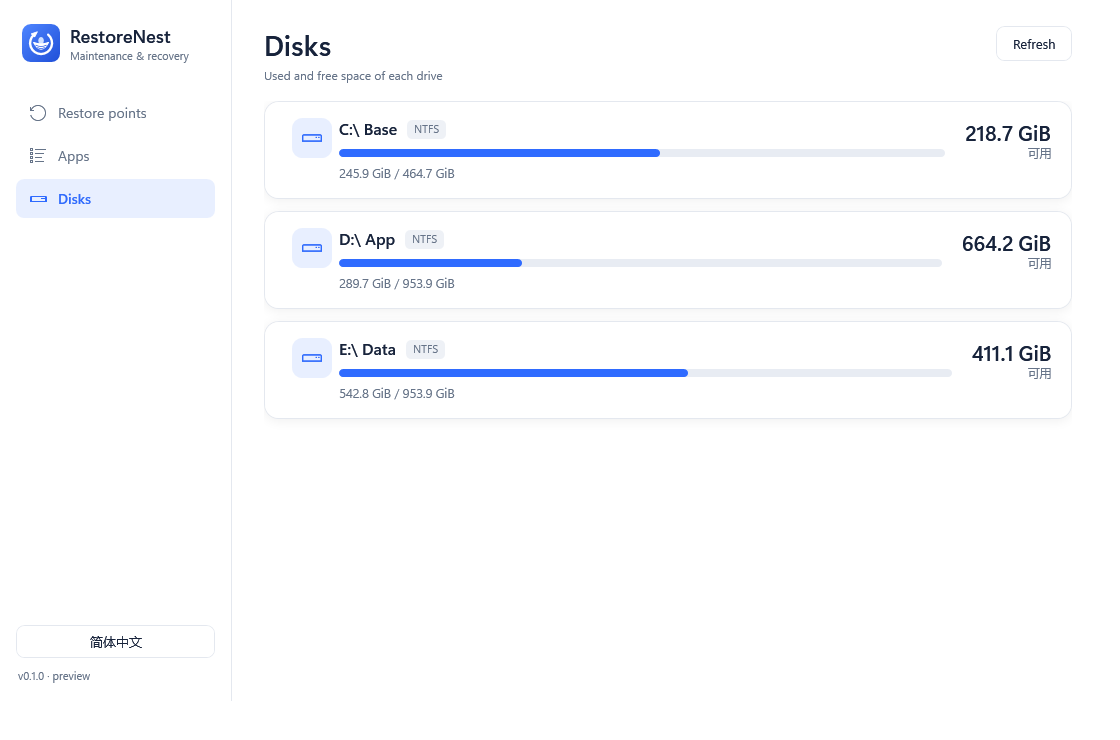
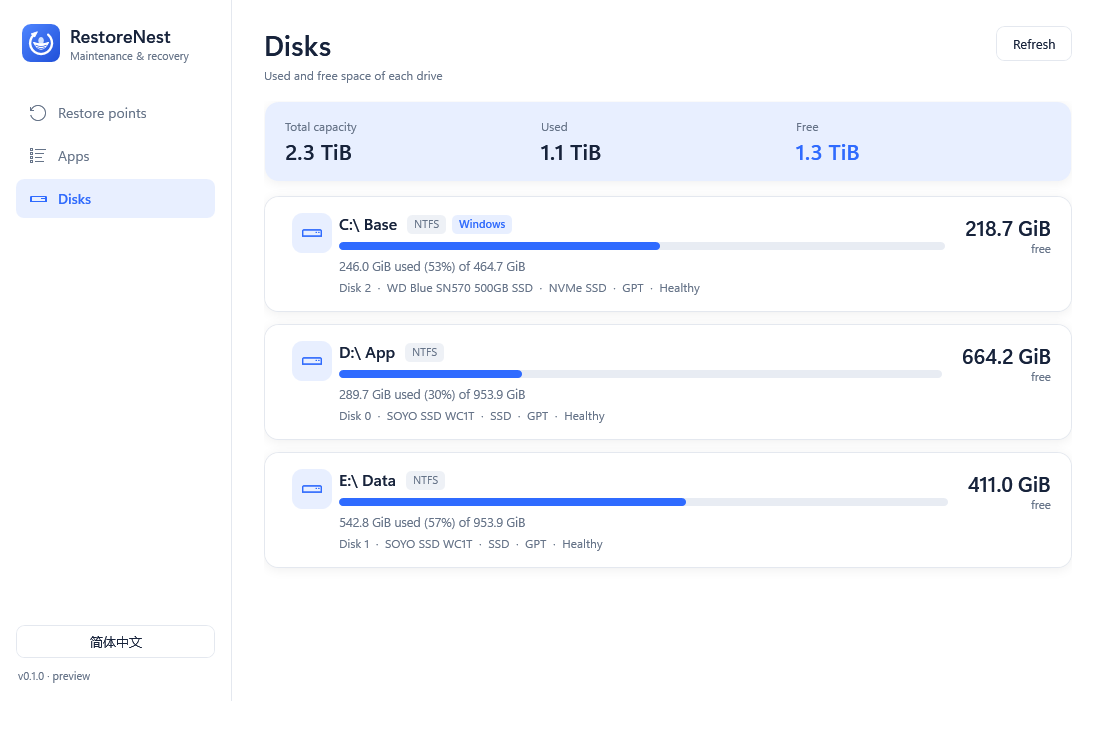
feat(ui): richer disk overview (totals, usage tiers, physical disk model/type/health, restore points per drive)

diff --git a/src/SystemCare/MainWindow.xaml b/src/SystemCare/MainWindow.xaml
@@ -131,27 +131,49 @@
           <StackPanel><TextBlock x:Name="DisksTitle" FontFamily="Segoe UI Variable Display, Segoe UI Variable Text, Segoe UI, Microsoft YaHei UI" FontSize="28" FontWeight="SemiBold"/><TextBlock x:Name="DisksSubtitle" Foreground="{StaticResource InkSoft}" Margin="0,4,0,0"/></StackPanel>
         </DockPanel>
         <ScrollViewer Grid.Row="1" VerticalScrollBarVisibility="Auto">
-          <ItemsControl x:Name="DiskList">
-            <ItemsControl.ItemTemplate>
-              <DataTemplate>
-                <Border Style="{StaticResource Card}" Margin="0,0,0,12" Padding="20,16">
-                  <Grid>
-                    <Grid.ColumnDefinitions><ColumnDefinition Width="54"/><ColumnDefinition Width="*"/><ColumnDefinition Width="Auto"/></Grid.ColumnDefinitions>
-                    <Border Width="40" Height="40" CornerRadius="10" Background="{StaticResource AccentSoft}" VerticalAlignment="Top"><TextBlock Text="&#xEDA2;" FontFamily="Segoe MDL2 Assets" FontSize="20" Foreground="{StaticResource Accent}" HorizontalAlignment="Center" VerticalAlignment="Center"/></Border>
-                    <StackPanel Grid.Column="1">
-                      <StackPanel Orientation="Horizontal"><TextBlock Text="{Binding Display}" FontSize="16" FontWeight="SemiBold"/><Border Background="#EEF1F6" CornerRadius="5" Padding="7,1" Margin="10,2,0,0"><TextBlock Text="{Binding Format}" FontSize="11" Foreground="{StaticResource InkSoft}"/></Border></StackPanel>
-                      <ProgressBar x:Name="Bar" Minimum="0" Maximum="100" Value="{Binding UsedPercent, Mode=OneWay}" Margin="0,10,0,8" AutomationProperties.Name="{Binding Summary}"/>
-                      <TextBlock Text="{Binding Summary}" FontSize="12.5" Foreground="{StaticResource InkSoft}"/>
-                    </StackPanel>
-                    <StackPanel Grid.Column="2" HorizontalAlignment="Right" Margin="20,0,0,0"><TextBlock Text="{Binding FreeText}" FontFamily="Segoe UI Variable Display, Segoe UI Variable Text, Segoe UI, Microsoft YaHei UI" FontSize="21" FontWeight="SemiBold" HorizontalAlignment="Right"/><TextBlock Text="{Binding FreeLabel}" FontSize="11.5" Foreground="{StaticResource InkSoft}" HorizontalAlignment="Right"/></StackPanel>
-                  </Grid>
-                </Border>
-                <DataTemplate.Triggers>
-                  <DataTrigger Binding="{Binding IsCritical}" Value="True"><Setter TargetName="Bar" Property="Foreground" Value="{StaticResource Danger}"/></DataTrigger>
-                </DataTemplate.Triggers>
-              </DataTemplate>
-            </ItemsControl.ItemTemplate>
-          </ItemsControl>
+          <StackPanel>
+            <Border Style="{StaticResource Card}" Margin="0,0,0,14" Padding="20,16" Background="{StaticResource AccentSoft}" BorderBrush="Transparent">
+              <Grid>
+                <Grid.ColumnDefinitions><ColumnDefinition Width="*"/><ColumnDefinition Width="*"/><ColumnDefinition Width="*"/></Grid.ColumnDefinitions>
+                <StackPanel><TextBlock x:Name="SumTotalLabel" FontSize="12" Foreground="{StaticResource InkSoft}"/><TextBlock x:Name="SumTotal" FontSize="22" FontWeight="SemiBold" Margin="0,2,0,0"/></StackPanel>
+                <StackPanel Grid.Column="1"><TextBlock x:Name="SumUsedLabel" FontSize="12" Foreground="{StaticResource InkSoft}"/><TextBlock x:Name="SumUsed" FontSize="22" FontWeight="SemiBold" Margin="0,2,0,0"/></StackPanel>
+                <StackPanel Grid.Column="2"><TextBlock x:Name="SumFreeLabel" FontSize="12" Foreground="{StaticResource InkSoft}"/><TextBlock x:Name="SumFree" FontSize="22" FontWeight="SemiBold" Foreground="{StaticResource Accent}" Margin="0,2,0,0"/></StackPanel>
+              </Grid>
+            </Border>
+            <ItemsControl x:Name="DiskList">
+              <ItemsControl.ItemTemplate>
+                <DataTemplate>
+                  <Border Style="{StaticResource Card}" Margin="0,0,0,12" Padding="20,16">
+                    <Grid>
+                      <Grid.ColumnDefinitions><ColumnDefinition Width="54"/><ColumnDefinition Width="*"/><ColumnDefinition Width="Auto"/></Grid.ColumnDefinitions>
+                      <Border Width="40" Height="40" CornerRadius="10" Background="{StaticResource AccentSoft}" VerticalAlignment="Top"><TextBlock Text="&#xEDA2;" FontFamily="Segoe MDL2 Assets" FontSize="20" Foreground="{StaticResource Accent}" HorizontalAlignment="Center" VerticalAlignment="Center"/></Border>
+                      <StackPanel Grid.Column="1">
+                        <WrapPanel>
+                          <TextBlock Text="{Binding Display}" FontSize="16" FontWeight="SemiBold" Margin="0,0,10,4"/>
+                          <Border Background="#EEF1F6" CornerRadius="5" Padding="7,1" Margin="0,2,6,4"><TextBlock Text="{Binding Format}" FontSize="11" Foreground="{StaticResource InkSoft}"/></Border>
+                          <Border x:Name="SystemTag" Background="{StaticResource AccentSoft}" CornerRadius="5" Padding="7,1" Margin="0,2,6,4"><TextBlock Text="{Binding SystemBadge}" FontSize="11" Foreground="{StaticResource Accent}" FontWeight="SemiBold"/></Border>
+                          <Border x:Name="KindTag" Background="#EEF1F6" CornerRadius="5" Padding="7,1" Margin="0,2,6,4"><TextBlock Text="{Binding KindBadge}" FontSize="11" Foreground="{StaticResource InkSoft}"/></Border>
+                          <Border x:Name="RestoreTag" Background="#E4F6EE" CornerRadius="5" Padding="7,1" Margin="0,2,6,4"><TextBlock Text="{Binding RestoreBadge}" FontSize="11" Foreground="{StaticResource Ok}" FontWeight="SemiBold"/></Border>
+                        </WrapPanel>
+                        <ProgressBar x:Name="Bar" Minimum="0" Maximum="100" Value="{Binding UsedPercent, Mode=OneWay}" Margin="0,4,0,8" AutomationProperties.Name="{Binding Summary}"/>
+                        <TextBlock Text="{Binding UsageText}" FontSize="12.5" Foreground="{StaticResource InkSoft}"/>
+                        <TextBlock x:Name="HardwareLine" Text="{Binding HardwareText}" FontSize="12" Foreground="{StaticResource InkSoft}" Margin="0,4,0,0" TextWrapping="Wrap"/>
+                      </StackPanel>
+                      <StackPanel Grid.Column="2" HorizontalAlignment="Right" Margin="20,0,0,0"><TextBlock Text="{Binding FreeText}" FontFamily="Segoe UI Variable Display, Segoe UI Variable Text, Segoe UI, Microsoft YaHei UI" FontSize="21" FontWeight="SemiBold" HorizontalAlignment="Right"/><TextBlock Text="{Binding FreeLabel}" FontSize="11.5" Foreground="{StaticResource InkSoft}" HorizontalAlignment="Right"/></StackPanel>
+                    </Grid>
+                  </Border>
+                  <DataTemplate.Triggers>
+                    <DataTrigger Binding="{Binding IsWarning}" Value="True"><Setter TargetName="Bar" Property="Foreground" Value="#E0A100"/></DataTrigger>
+                    <DataTrigger Binding="{Binding IsCritical}" Value="True"><Setter TargetName="Bar" Property="Foreground" Value="{StaticResource Danger}"/></DataTrigger>
+                    <DataTrigger Binding="{Binding SystemBadge}" Value=""><Setter TargetName="SystemTag" Property="Visibility" Value="Collapsed"/></DataTrigger>
+                    <DataTrigger Binding="{Binding KindBadge}" Value=""><Setter TargetName="KindTag" Property="Visibility" Value="Collapsed"/></DataTrigger>
+                    <DataTrigger Binding="{Binding RestoreBadge}" Value=""><Setter TargetName="RestoreTag" Property="Visibility" Value="Collapsed"/></DataTrigger>
+                    <DataTrigger Binding="{Binding HardwareText}" Value=""><Setter TargetName="HardwareLine" Property="Visibility" Value="Collapsed"/></DataTrigger>
+                  </DataTemplate.Triggers>
+                </DataTemplate>
+              </ItemsControl.ItemTemplate>
+            </ItemsControl>
+          </StackPanel>
         </ScrollViewer>
       </Grid>
     </Grid>

diff --git a/src/SystemCare/DiskOverview.cs b/src/SystemCare/DiskOverview.cs
@@ -1,23 +1,59 @@
 using System.IO;
+using System.Text.Json;
+using System.Text.RegularExpressions;
 
 namespace SystemCare;
 
+// What sits under a drive letter: the physical disk (model, kind, health). Filled in after the quick listing, because asking
+// Windows for it takes a second or two.
+public record DiskHardware(int DiskNumber, string Model, string Kind, string PartitionStyle, string Health, long DiskBytes);
+
 public record DiskVolume(string Root, string Label, string Format, long TotalBytes, long FreeBytes, string DriveType)
 {
+    public DiskHardware? Hardware { get; init; }
+    public int RestorePoints { get; init; }
+    public long RestorePointBytes { get; init; }
+
     public long UsedBytes => TotalBytes - FreeBytes;
     public double UsedPercent => TotalBytes <= 0 ? 0 : 100.0 * UsedBytes / TotalBytes;
     public string Summary => $"{FormatBytes(UsedBytes)} / {FormatBytes(TotalBytes)}";
+    public string UsageText => string.Format(DiskWords.UsageFormat, FormatBytes(UsedBytes), UsedPercent.ToString("F0"), FormatBytes(TotalBytes));
     public string FreeText => FormatBytes(FreeBytes);
     public bool IsCritical => UsedPercent >= 90;
+    public bool IsWarning => UsedPercent >= 75 && !IsCritical;
     public static string FreeWord { get; set; } = "free";
     public string FreeLabel => IsCritical ? FreeWord + " ⚠" : FreeWord;
     public string Display => string.IsNullOrEmpty(Label) ? Root : $"{Root} {Label}";
 
+    public bool IsSystem => string.Equals(Root, DiskOverview.WindowsRoot, StringComparison.OrdinalIgnoreCase);
+    public string SystemBadge => IsSystem ? DiskWords.System : "";
+    public string KindBadge => DriveType switch { "Removable" => DiskWords.Removable, "Network" => DiskWords.Network, _ => "" };
+    public string RestoreBadge => RestorePoints > 0 ? string.Format(DiskWords.RestoreFormat, RestorePoints, FormatBytes(RestorePointBytes)) : "";
+
+    // "Disk 0 · Samsung SSD 980 · NVMe SSD · GPT · Healthy", empty until the hardware is known.
+    public string HardwareText => Hardware is null ? "" : string.Join("  ·  ", new[]
+    {
+        string.Format(DiskWords.DiskFormat, Hardware.DiskNumber), Hardware.Model, Hardware.Kind, Hardware.PartitionStyle, Hardware.Health
+    }.Where(part => !string.IsNullOrWhiteSpace(part)));
+
     public static string FormatBytes(long bytes) => DiskOverview.FormatBytes(bytes);
+}
+
+// Words shown in the disk page, set from the UI language (the same way FreeWord is).
+public static class DiskWords
+{
+    public static string System { get; set; } = "Windows";
+    public static string Removable { get; set; } = "Removable";
+    public static string Network { get; set; } = "Network";
+    public static string RestoreFormat { get; set; } = "{0} restore points · {1}";
+    public static string DiskFormat { get; set; } = "Disk {0}";
+    public static string UsageFormat { get; set; } = "{0} used ({1}%) of {2}";
 }
 
 public static class DiskOverview
 {
+    public static string WindowsRoot => Path.GetPathRoot(Environment.GetFolderPath(Environment.SpecialFolder.Windows)) ?? @"C:\";
+
     public static string FormatBytes(long bytes)
     {
         string[] units = { "B", "KiB", "MiB", "GiB", "TiB" };
@@ -36,10 +72,87 @@ public static class DiskOverview
             try
             {
                 if (!drive.IsReady) continue;
-                volumes.Add(new(drive.Name, drive.VolumeLabel, drive.DriveFormat, drive.TotalSize, drive.AvailableFreeSpace, drive.DriveType.ToString()));
+                var (count, bytes) = CountRestorePoints(Path.Combine(drive.Name, "RestoreNest"));
+                volumes.Add(new(drive.Name, drive.VolumeLabel, drive.DriveFormat, drive.TotalSize, drive.AvailableFreeSpace, drive.DriveType.ToString()) { RestorePoints = count, RestorePointBytes = bytes });
             }
             catch (Exception e) when (e is IOException or UnauthorizedAccessException) { }
         }
         return volumes;
+    }
+
+    // Restore points are folders named yyyyMMdd-HHmmss holding system.wim; the interrupted ones end in .partial and do not count.
+    public static (int Count, long Bytes) CountRestorePoints(string root)
+    {
+        var count = 0; long bytes = 0;
+        try
+        {
+            if (!Directory.Exists(root)) return (0, 0);
+            foreach (var directory in Directory.EnumerateDirectories(root))
+            {
+                if (!Regex.IsMatch(Path.GetFileName(directory), @"\A\d{8}-\d{6}\z")) continue;
+                var wim = Path.Combine(directory, "system.wim");
+                if (!File.Exists(wim)) continue;
+                count++; bytes += new FileInfo(wim).Length;
+            }
+        }
+        catch (Exception e) when (e is IOException or UnauthorizedAccessException) { }
+        return (count, bytes);
+    }
+
+    // Physical disk behind each drive letter. Returns an empty map when Windows cannot say (no storage cmdlets, no rights).
+    public static async Task<Dictionary<string, DiskHardware>> GetHardwareAsync()
+    {
+        const string script = @"
+$ErrorActionPreference = 'Stop'
+$physical = @{}
+Get-PhysicalDisk | ForEach-Object { $physical[[string]$_.DeviceId] = $_ }
+$rows = @(Get-Partition | Where-Object DriveLetter | ForEach-Object {
+    $partition = $_
+    $disk = Get-Disk -Number $partition.DiskNumber
+    $pd = $physical[[string]$partition.DiskNumber]
+    [pscustomobject]@{ letter = [string]$partition.DriveLetter; disk = [int]$partition.DiskNumber; model = [string]$disk.FriendlyName
+        media = $(if ($pd) { [string]$pd.MediaType } else { '' }); bus = [string]$disk.BusType; style = [string]$disk.PartitionStyle
+        health = [string]$disk.HealthStatus; size = [long]$disk.Size }
+})
+ConvertTo-Json -InputObject $rows -Compress";
+        try
+        {
+            var result = await PowerShell.RunAsync(script);
+            return result.ExitCode == 0 ? ParseHardware(result.Output) : new();
+        }
+        catch (Exception e) when (e is InvalidOperationException or System.ComponentModel.Win32Exception) { return new(); }
+    }
+
+    public static Dictionary<string, DiskHardware> ParseHardware(string json)
+    {
+        var map = new Dictionary<string, DiskHardware>(StringComparer.OrdinalIgnoreCase);
+        try
+        {
+            using var document = JsonDocument.Parse(json);
+            var items = document.RootElement.ValueKind == JsonValueKind.Array ? document.RootElement.EnumerateArray().ToArray() : new[] { document.RootElement };
+            foreach (var item in items)
+            {
+                if (item.ValueKind != JsonValueKind.Object) continue;
+                string Text(string name) => item.TryGetProperty(name, out var value) && value.ValueKind == JsonValueKind.String ? value.GetString() ?? "" : "";
+                long Number(string name) => item.TryGetProperty(name, out var value) && value.ValueKind == JsonValueKind.Number ? value.GetInt64() : 0;
+                var letter = Text("letter");
+                if (letter.Length != 1) continue;
+                map[letter + @":\"] = new DiskHardware((int)Number("disk"), Text("model").Trim(), KindOf(Text("media"), Text("bus")), Text("style"), Text("health"), Number("size"));
+            }
+        }
+        catch (JsonException) { }
+        return map;
+    }
+
+    // "NVMe SSD", "SSD", "HDD", "USB"... from the media type and the bus the disk hangs on.
+    public static string KindOf(string media, string bus)
+    {
+        var solid = media.Equals("SSD", StringComparison.OrdinalIgnoreCase);
+        var spinning = media.Equals("HDD", StringComparison.OrdinalIgnoreCase);
+        if (bus.Equals("NVMe", StringComparison.OrdinalIgnoreCase)) return "NVMe SSD";
+        if (bus.Equals("USB", StringComparison.OrdinalIgnoreCase)) return solid ? "USB SSD" : spinning ? "USB HDD" : "USB";
+        if (solid) return "SSD";
+        if (spinning) return "HDD";
+        return bus.Equals("Unknown", StringComparison.OrdinalIgnoreCase) ? "" : bus;
     }
 }

diff --git a/tests/SystemCare.Tests/Program.cs b/tests/SystemCare.Tests/Program.cs
@@ -55,6 +55,26 @@ Check(Uninstaller.Plan(new InstalledApp("N", "", "", "")) is null, "no command, 
 Check(DiskOverview.FormatBytes(1536) == "1.5 KiB" && DiskOverview.FormatBytes(0) == "0 B", "size formatting");
 Check(new DiskVolume(@"C:\", "", "NTFS", 200, 50, "Fixed").UsedPercent == 75, "used percentage");
 Check(DiskOverview.Get().Count > 0, "at least one drive listed");
+{
+    var hardware = DiskOverview.ParseHardware("[{\"letter\":\"C\",\"disk\":2,\"model\":\"WD Blue SN570 500GB \",\"media\":\"SSD\",\"bus\":\"NVMe\",\"style\":\"GPT\",\"health\":\"Healthy\",\"size\":500107862016},{\"letter\":\"E\",\"disk\":1,\"model\":\"USB Stick\",\"media\":\"Unspecified\",\"bus\":\"USB\",\"style\":\"MBR\",\"health\":\"Healthy\",\"size\":1}]");
+    Check(hardware.Count == 2 && hardware[@"C:\"].DiskNumber == 2 && hardware[@"C:\"].Model == "WD Blue SN570 500GB" && hardware[@"C:\"].Kind == "NVMe SSD" && hardware[@"E:\"].Kind == "USB", "disk hardware JSON is parsed (array form)");
+    Check(DiskOverview.ParseHardware("{\"letter\":\"D\",\"disk\":0,\"model\":\"X\",\"media\":\"HDD\",\"bus\":\"SATA\",\"style\":\"GPT\",\"health\":\"Healthy\",\"size\":5}")[@"D:\"].Kind == "HDD", "disk hardware JSON is parsed (single object form)");
+    Check(DiskOverview.ParseHardware("not json").Count == 0 && DiskOverview.ParseHardware("").Count == 0, "bad disk hardware output gives an empty map");
+    Check(DiskOverview.KindOf("Unspecified", "SATA") == "SATA" && DiskOverview.KindOf("", "Unknown") == "" && DiskOverview.KindOf("SSD", "USB") == "USB SSD", "disk kind names");
+    var shown = new DiskVolume(@"C:\", "Base", "NTFS", 200, 20, "Fixed") { Hardware = hardware[@"C:\"], RestorePoints = 2, RestorePointBytes = 2048 };
+    Check(shown.IsCritical && !shown.IsWarning && new DiskVolume(@"D:\", "", "NTFS", 100, 20, "Fixed").IsWarning, "usage tiers: warning from 75%, critical from 90%");
+    Check(shown.HardwareText.Contains("NVMe SSD") && shown.HardwareText.Contains("GPT") && new DiskVolume(@"D:\", "", "NTFS", 1, 1, "Fixed").HardwareText == "", "hardware line is empty until known");
+    Check(shown.RestoreBadge.Contains("2") && new DiskVolume(@"D:\", "", "NTFS", 1, 1, "Fixed").RestoreBadge == "", "restore point badge");
+    var tmp = Path.Combine(Path.GetTempPath(), "rn-dv-" + Guid.NewGuid().ToString("N"));
+    try
+    {
+        Directory.CreateDirectory(Path.Combine(tmp, "20261101-020000")); File.WriteAllBytes(Path.Combine(tmp, "20261101-020000", "system.wim"), new byte[100]);
+        Directory.CreateDirectory(Path.Combine(tmp, "20261102-020000.partial")); File.WriteAllBytes(Path.Combine(tmp, "20261102-020000.partial", "system.wim"), new byte[50]);
+        Directory.CreateDirectory(Path.Combine(tmp, "20261103-020000"));   // no image: not a restore point
+        Check(DiskOverview.CountRestorePoints(tmp) == (1, 100) && DiskOverview.CountRestorePoints(Path.Combine(tmp, "missing")) == (0, 0), "restore points are counted per drive (partial and empty folders are not)");
+    }
+    finally { Directory.Delete(tmp, true); }
+}
 var appxJson = "[{\"N\":\"Microsoft.Foo\",\"F\":\"Microsoft.Foo_1.0.0.0_x64__8wekyb3d8bbwe\",\"V\":\"1.0.0.0\",\"P\":\"CN=X\"},{\"N\":\"Bad\",\"F\":\"x'; calc; '\",\"V\":\"\",\"P\":\"\"}]";
 Check(AppxApps.Parse(appxJson).Count == 1, "appx parsing drops unsafe package names");
 Check(AppxApps.Parse("not json").Count == 0, "appx bad json ignored");

diff --git a/src/SystemCare/MainWindow.Apps.cs b/src/SystemCare/MainWindow.Apps.cs
@@ -16,7 +16,29 @@ public partial class MainWindow
         FilterApps();
     }
 
-    private void RefreshDisks() => DiskList.ItemsSource = DiskOverview.Get();
+    private int diskRefreshes;
+    private async void RefreshDisks()
+    {
+        var generation = ++diskRefreshes;
+        var volumes = DiskOverview.Get();
+        ShowDisks(volumes);
+        // The physical disk (model, SSD/HDD, health) takes a moment; the drives are already on screen.
+        var hardware = await DiskOverview.GetHardwareAsync();
+        if (generation != diskRefreshes || hardware.Count == 0) return;
+        var detailed = volumes.Select(v => hardware.TryGetValue(v.Root, out var h) ? v with { Hardware = h } : v).ToList();
+        Dispatcher.Invoke(() => { if (generation == diskRefreshes) ShowDisks(detailed); });   // not necessarily on the UI thread yet
+    }
+
+    private void ShowDisks(List<DiskVolume> volumes)
+    {
+        DiskList.ItemsSource = null;   // records with equal values would otherwise keep their old containers (and old language)
+        DiskList.ItemsSource = volumes;
+        var local = volumes.Where(v => v.DriveType != "Network").ToList();
+        SumTotal.Text = DiskVolume.FormatBytes(local.Sum(v => v.TotalBytes));
+        SumUsed.Text = DiskVolume.FormatBytes(local.Sum(v => v.UsedBytes));
+        SumFree.Text = DiskVolume.FormatBytes(local.Sum(v => v.FreeBytes));
+    }
+
     private void RefreshDisksClick(object sender, RoutedEventArgs e) => RefreshDisks();
 
     private static string[] ProtectedTrees() => new[] { Environment.GetFolderPath(Environment.SpecialFolder.Windows) }.Where(p => !string.IsNullOrEmpty(p)).ToArray();

diff --git a/src/SystemCare/MainWindow.xaml.cs b/src/SystemCare/MainWindow.xaml.cs
@@ -55,6 +55,12 @@ public partial class MainWindow : Window
         DisksTitle.Text = T("磁盘概览", "Disks"); DisksSubtitle.Text = T("各磁盘的已用空间与剩余空间", "Used and free space of each drive");
         RefreshDisksButton.Content = T("刷新", "Refresh");
         DiskVolume.FreeWord = T("可用", "free");
+        DiskWords.System = T("Windows 系统盘", "Windows");
+        DiskWords.Removable = T("可移动", "Removable"); DiskWords.Network = T("网络", "Network");
+        DiskWords.RestoreFormat = T("{0} 个还原点 · {1}", "{0} restore points · {1}");
+        DiskWords.DiskFormat = T("磁盘 {0}", "Disk {0}");
+        DiskWords.UsageFormat = T("已用 {0}（{1}%），共 {2}", "{0} used ({1}%) of {2}");
+        SumTotalLabel.Text = T("总容量", "Total capacity"); SumUsedLabel.Text = T("已使用", "Used"); SumFreeLabel.Text = T("剩余", "Free");
         UpdateSelectionCount();
     }
 

diff --git a/README.md b/README.md
@@ -42,7 +42,7 @@
 <table>
   <tr>
     <td width="50%"><img src="docs/img/app/restore-en.png" alt="Restore points page with automatic schedule"><br><sub><b>Restore points:</b> storage location, recovery setup, automatic schedule.</sub></td>
-    <td width="50%"><img src="docs/img/app/disks-en.png" alt="Disk overview"><br><sub><b>Disks:</b> used and free space per drive.</sub></td>
+    <td width="50%"><img src="docs/img/app/disks-en.png" alt="Disk overview"><br><sub><b>Disks:</b> totals, usage per drive, physical disk model, SSD/HDD type and health, restore points stored on each drive.</sub></td>
   </tr>
   <tr>
     <td><img src="docs/img/app/restore-zh.png" alt="还原点页面"><br><sub><b>中文界面：</b>还原点与自动保护。</sub></td>
